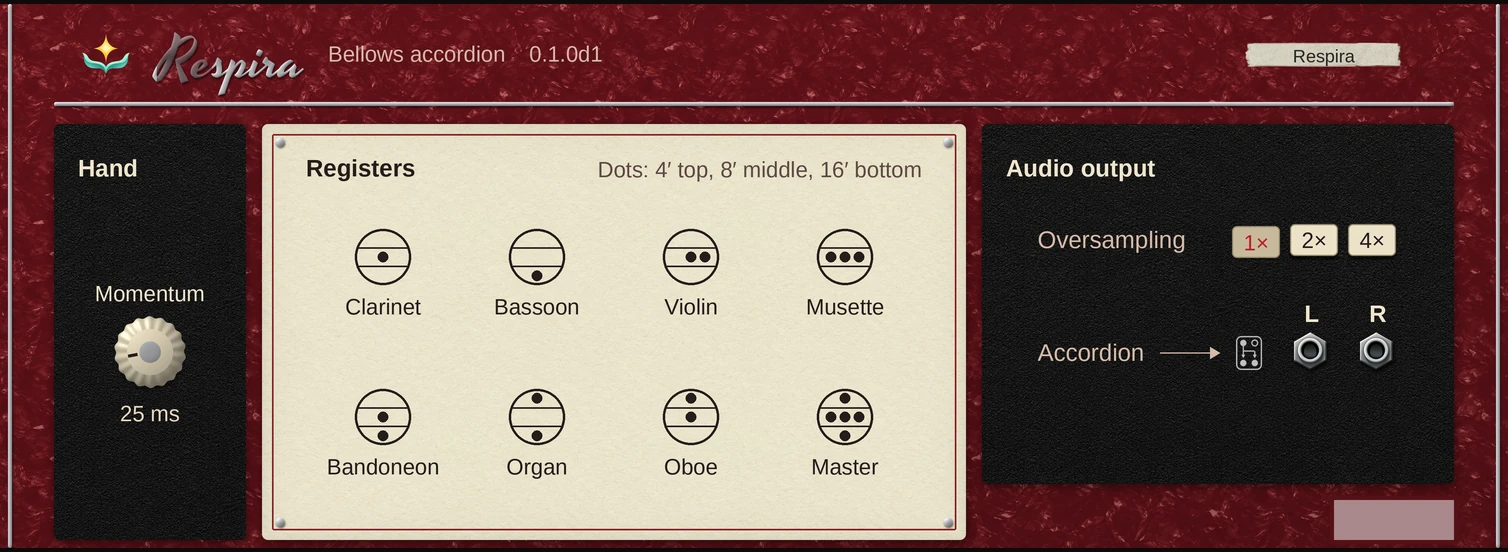
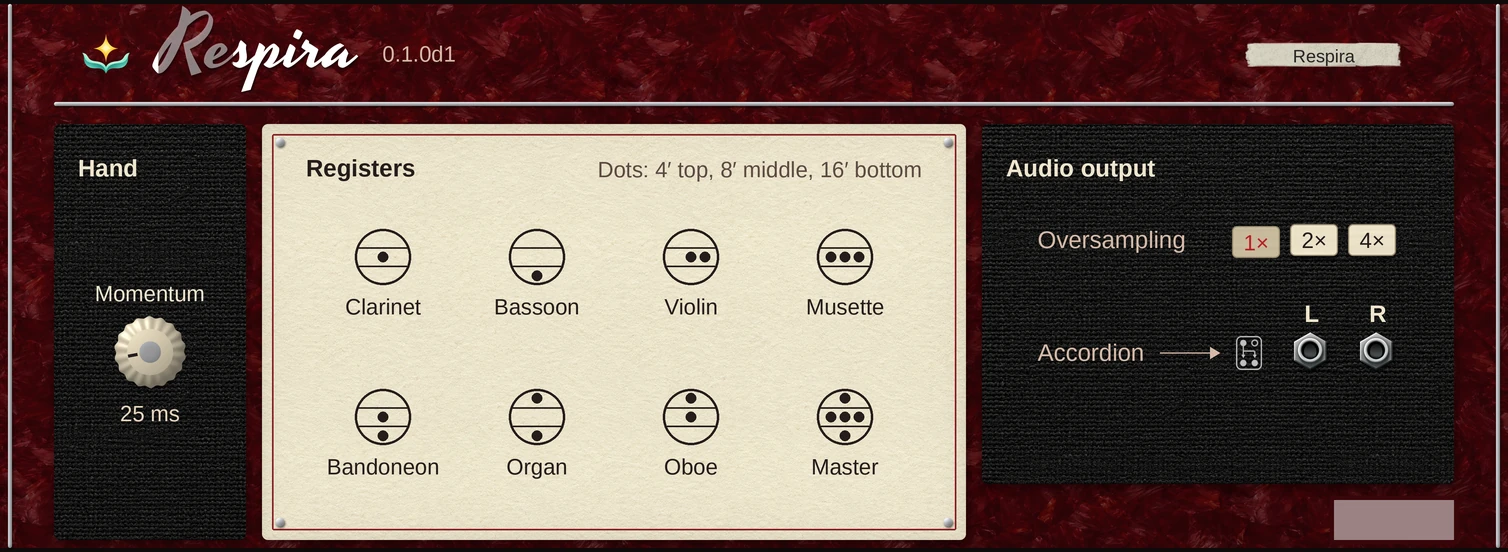
Respira's redesigned panels on its coming-soon page
The front and rear previews and the thumbnail come from the redesigned
panel at reason-rack-extensions main 70df34a8 (white wordmark, darker
oxblood finish, the gauge over Air and Keyboard). Their cache key moves
so the old images are not served from caches.

Claude-Session: https://claude.ai/code/session_01FqKD1t6d9Tje5juqcUbKQ6

diff --git a/product/respira/index.html b/product/respira/index.html
@@ -11,7 +11,7 @@
   <meta property="og:description" content="Respira is a physically modelled accordion Rack Extension for Reason, in development: play the bellows with the mod wheel, through eight registers of simulated steel reeds with bass and chord buttons.">
   <meta property="og:type" content="website">
   <meta property="og:url" content="https://protocodus.cz/product/respira/">
-  <meta property="og:image" content="https://protocodus.cz/product/respira/Respira_Thumbnail_800.png?v=20261027-coming-soon">
+  <meta property="og:image" content="https://protocodus.cz/product/respira/Respira_Thumbnail_800.png?v=20261027-respira-oxblood">
   <meta property="og:image:width" content="800">
   <meta property="og:image:height" content="800">
   <meta property="og:image:alt" content="Respira Rack Extension front panel under the Respira name, with the hand wheels and pressure gauge on bellows cloth and eight register tabs on a nickel grille">
@@ -87,8 +87,8 @@
           </div>
         </div>
         <figure class="shot hero-shot">
-          <a class="screenshot-link" href="respira-rack-front.webp?v=20261027-coming-soon" aria-label="View the Respira Rack Extension front panel at full size" data-analytics-cta="front_panel" data-analytics-action="view_screenshot">
-            <img src="respira-rack-front.webp?v=20261027-coming-soon" width="1508" height="552" fetchpriority="high" decoding="async" alt="Respira Rack Extension front panel with a pull and push pressure gauge, pitch and hand wheels, the air button and keyboard switch on bellows cloth, eight register tabs on a nickel grille and seven sound controls">
+          <a class="screenshot-link" href="respira-rack-front.webp?v=20261027-respira-oxblood" aria-label="View the Respira Rack Extension front panel at full size" data-analytics-cta="front_panel" data-analytics-action="view_screenshot">
+            <img src="respira-rack-front.webp?v=20261027-respira-oxblood" width="1508" height="552" fetchpriority="high" decoding="async" alt="Respira Rack Extension front panel with a pull and push pressure gauge, pitch and hand wheels, the air button and keyboard switch on bellows cloth, eight register tabs on a nickel grille and seven sound controls">
             <span class="shot-caption">Front panel · development build <span>View full size <span aria-hidden="true">↗</span></span></span>
           </a>
         </figure>
@@ -120,8 +120,8 @@
           <p class="lede">Turn the rack around for Momentum, which sets how smoothly the bellows turn at each change of direction, a chart of the registers, oversampling and the dry stereo output, ready for your own room and effects.</p>
         </div>
         <figure class="shot">
-          <a class="screenshot-link" href="respira-rack-rear.webp?v=20261027-coming-soon" aria-label="View the Respira Rack Extension rear panel at full size" data-analytics-cta="rear_panel" data-analytics-action="view_screenshot">
-            <img src="respira-rack-rear.webp?v=20261027-coming-soon" width="1508" height="552" loading="lazy" decoding="async" alt="Respira Rack Extension rear panel with the Momentum knob, a chart of the eight registers, the oversampling choice and the stereo audio outputs">
+          <a class="screenshot-link" href="respira-rack-rear.webp?v=20261027-respira-oxblood" aria-label="View the Respira Rack Extension rear panel at full size" data-analytics-cta="rear_panel" data-analytics-action="view_screenshot">
+            <img src="respira-rack-rear.webp?v=20261027-respira-oxblood" width="1508" height="552" loading="lazy" decoding="async" alt="Respira Rack Extension rear panel with the Momentum knob, a chart of the eight registers, the oversampling choice and the stereo audio outputs">
             <span class="shot-caption">Rear panel &amp; connections <span>View full size <span aria-hidden="true">↗</span></span></span>
           </a>
         </figure>

diff --git a/index.html b/index.html
@@ -157,7 +157,7 @@
           </article>
 
           <article class="product-card p-respira">
-            <a class="product-shot" href="/product/respira/" aria-label="Explore Respira" data-analytics-cta="product_respira_image" data-analytics-action="select_product"><img src="product/respira/respira-rack-front.webp?v=20261027-coming-soon" width="1508" height="552" loading="lazy" decoding="async" alt="Respira Rack Extension front panel, development build"></a>
+            <a class="product-shot" href="/product/respira/" aria-label="Explore Respira" data-analytics-cta="product_respira_image" data-analytics-action="select_product"><img src="product/respira/respira-rack-front.webp?v=20261027-respira-oxblood" width="1508" height="552" loading="lazy" decoding="async" alt="Respira Rack Extension front panel, development build"></a>
             <div class="product-body">
               <div class="product-tags"><span>Rack Extension</span><span class="product-type">Modelled accordion · In development</span></div>
               <h3><a href="/product/respira/" data-analytics-cta="product_respira_title" data-analytics-action="select_product">Respira</a></h3>

diff --git a/product/SCREENSHOTS.md b/product/SCREENSHOTS.md
@@ -17,7 +17,7 @@ Rack device, such as Septum, have no page.
 | Ceres | Unchanged Rack 1.0.0f1 first-public-release candidate prepared 23 October 2026; exact release sources, default panel state and SHA-256 records in [`ceres/ASSET_PROVENANCE.json`](ceres/ASSET_PROVENANCE.json). | Complete front/back PNGs and matching WebPs, 754 × 414; 800 × 800 thumbnail; four-page candidate player guide |
 | Press78 | Unchanged Rack 0.1.0b15 panel renders `Docs/screenshots/Press78_{Front,Back}.png`, canonical revision `1f74ad77`; earlier candidate media retained. | `press78-rack-front.webp` and `press78-rack-rear.webp`, 754 × 552 |
 | Aculele | Rack 0.2.0d2 development panel previews from `Examples/Aculele/Design/render_panels.py --review`, branch revision `e769e2e5`; no SDK build. Records in [`aculele/ASSET_PROVENANCE.json`](aculele/ASSET_PROVENANCE.json). | `aculele-rack-front.webp` and `aculele-rack-rear.webp`, 1508 × 1104; 800 × 800 thumbnail |
-| Respira | Rack 0.1.0d1 final first-pass panel previews committed in `Examples/Respira/Docs/screenshots/`, main revision `28707b7f`; no SDK build. Records in [`respira/ASSET_PROVENANCE.json`](respira/ASSET_PROVENANCE.json). | `respira-rack-front.webp` and `respira-rack-rear.webp`, 1508 × 552; 800 × 800 thumbnail |
+| Respira | Rack 0.1.0d1 redesigned first-pass panel previews committed in `Examples/Respira/Docs/screenshots/`, main revision `70df34a8`; no SDK build. Records in [`respira/ASSET_PROVENANCE.json`](respira/ASSET_PROVENANCE.json). | `respira-rack-front.webp` and `respira-rack-rear.webp`, 1508 × 552; 800 × 800 thumbnail |
 | Aculyre | Rack 0.4.0d1 development panel previews from `Examples/Aculyre/Design/render_panels.py`, branch revision `2ecab2ac`; no SDK build. Records in [`aculyre/ASSET_PROVENANCE.json`](aculyre/ASSET_PROVENANCE.json). | `aculyre-rack-front.webp` and `aculyre-rack-rear.webp`, 1508 × 828; 800 × 800 thumbnail |
 | Lamer Degrader | Public Shop listing 1.0.0; existing full front/rear PNGs and thumbnail verified byte-for-byte against current public Shop originals. Exact URLs and hashes are in `lamer/ASSET_PROVENANCE.json`. | Complete front/rear PNGs and WebPs, 1600 × 293; 800 × 800 thumbnail. Existing mascots, poster and demonstration video retained. |
 | Podcare | Existing repository illustration | Existing card retained |
@@ -148,6 +148,8 @@ the panel's lettering with its RE pair at half opacity, a one-line description,
 the Protocodus logo at the bottom); the thumbnails also serve as the pages'
 social images. The panels were rendered while each instrument's first pass was
 still under way; they are replaced once each first pass is done.
+Respira's images and thumbnail were refreshed the same day from its redesigned
+panel (white wordmark, darker oxblood finish, the gauge over Air and Keyboard).
 
 ### Public Shop media review — 27 October 2026
 
